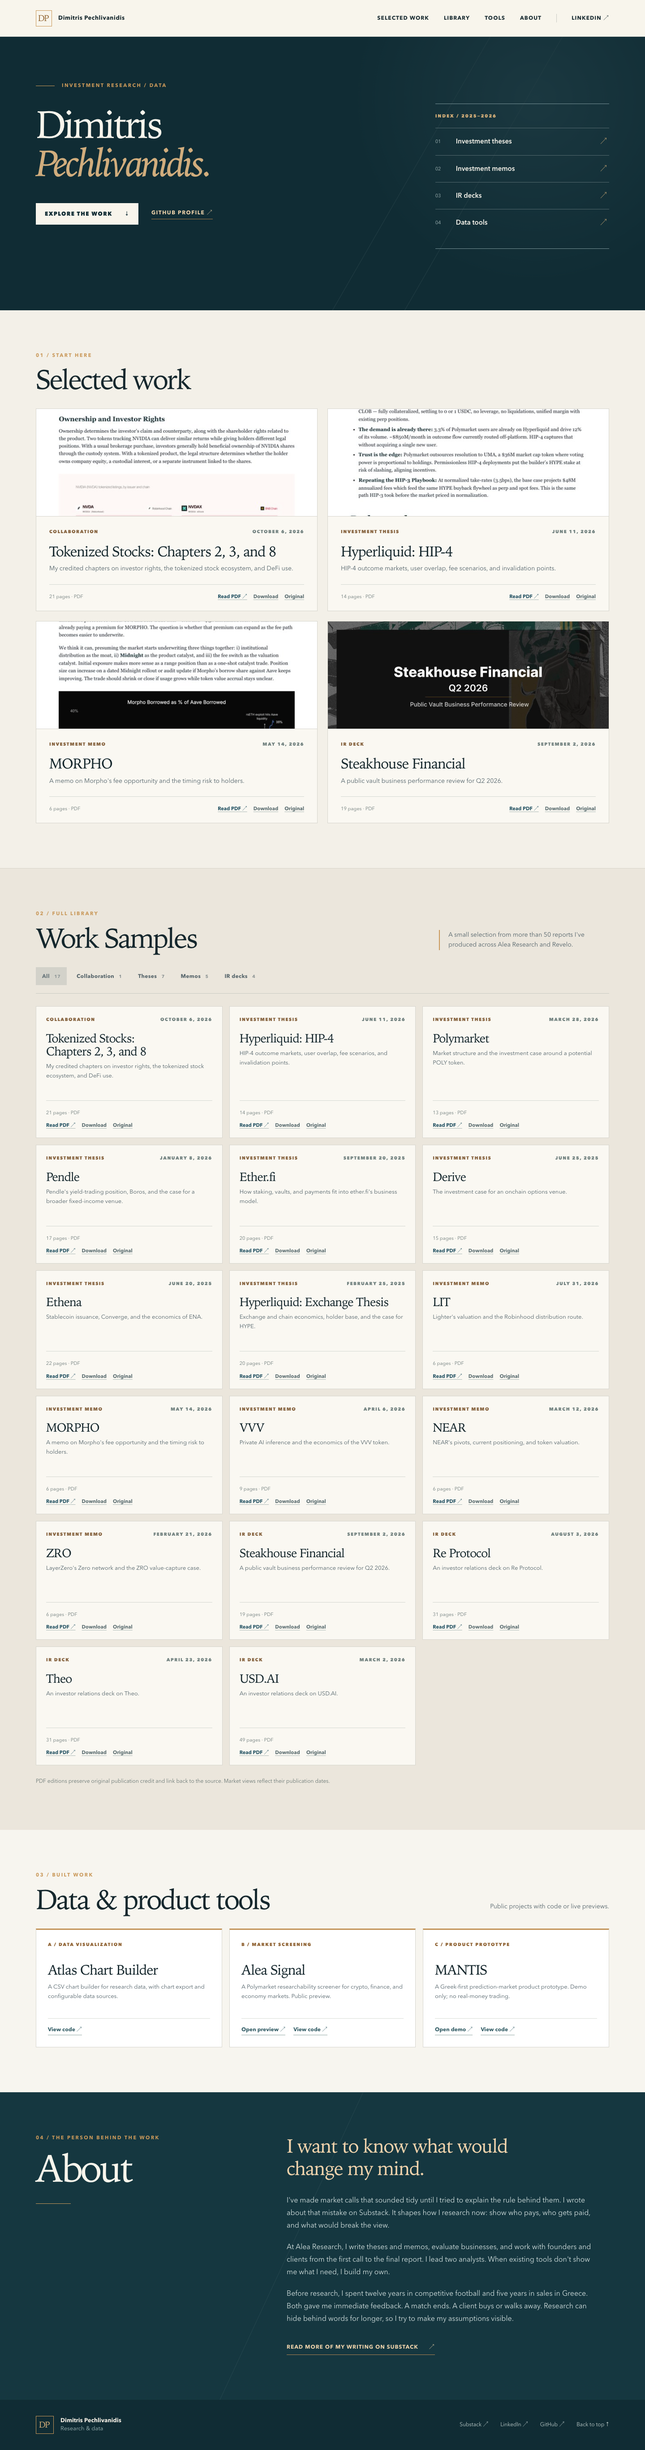
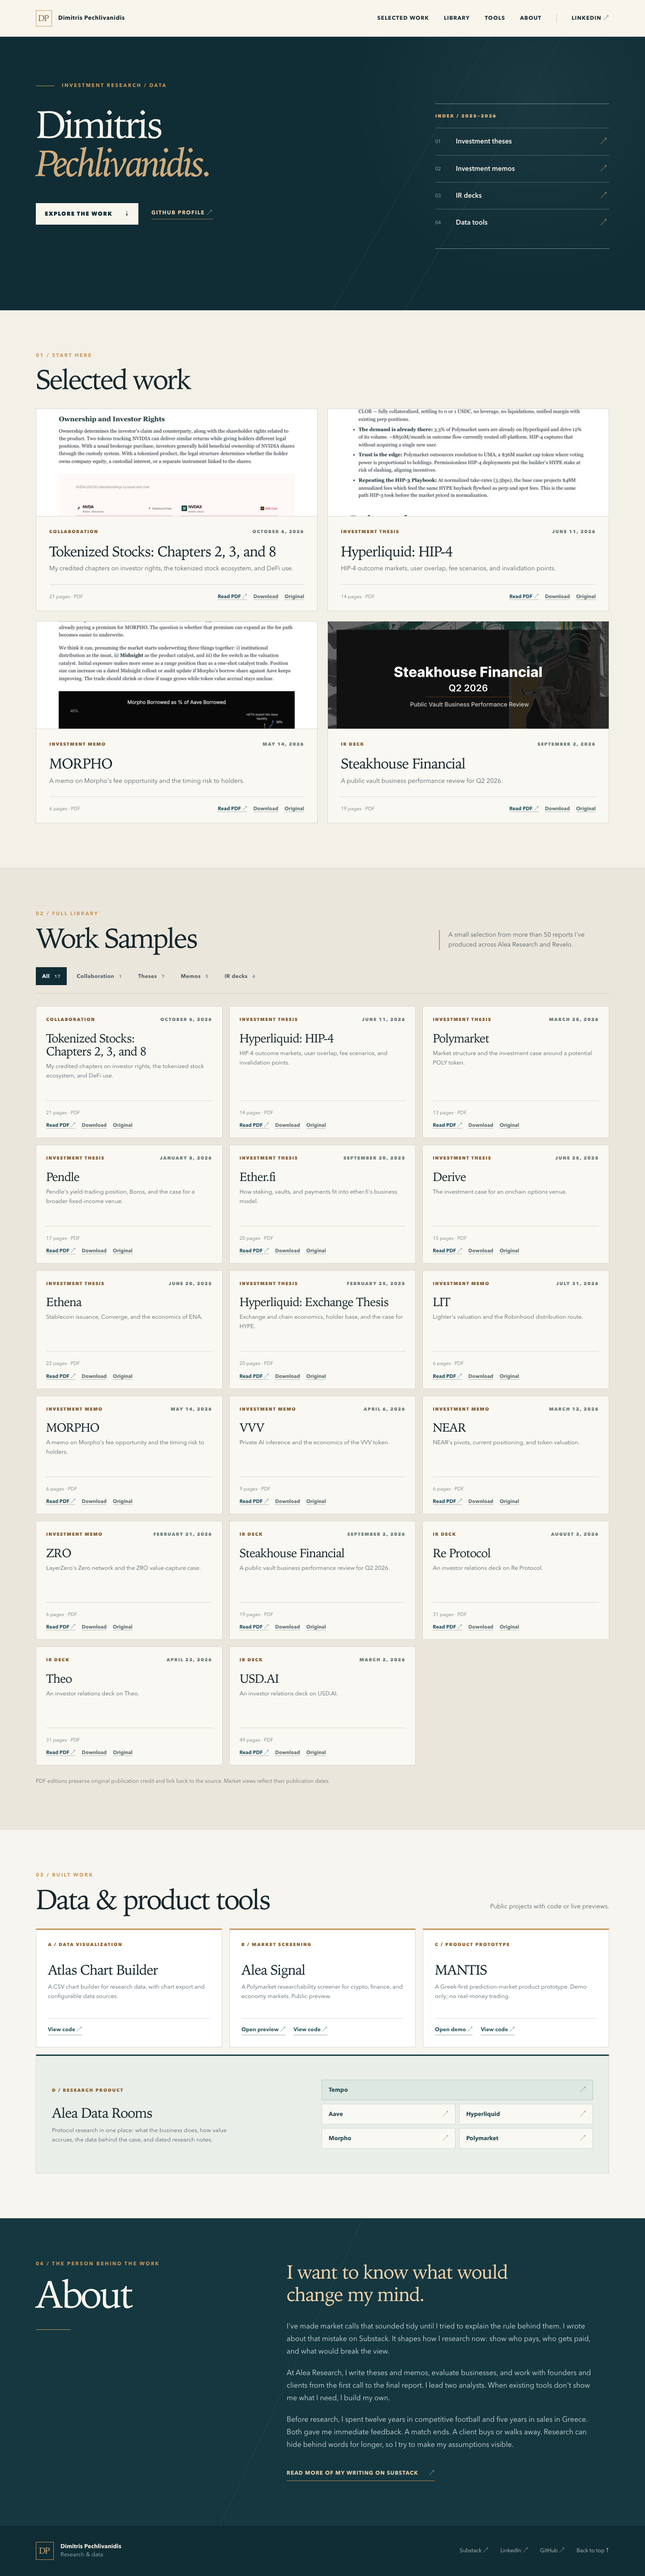
Add Alea Data Rooms to product portfolio

diff --git a/docs/styles.css b/docs/styles.css
@@ -85,6 +85,14 @@ a:focus-visible,button:focus-visible{outline:3px solid var(--gold);outline-offse
 .tool-links{margin-top:auto;display:flex;flex-wrap:wrap;gap:18px;padding-top:15px;border-top:1px solid #d9ddd7}
 .tool-links a{font-size:12px;font-weight:700;color:#315b64;border-bottom:1px solid #93a9a5;padding-bottom:2px}
 .tool-links a:hover{color:#a16c35}
+.data-room-card{grid-column:1/-1;min-height:265px;display:grid;grid-template-columns:minmax(0,1fr) minmax(0,1.2fr);align-items:center;gap:8%;padding:33px 35px;background:#e9eee9;border-top-color:#173b43}
+.data-room-copy h3{margin:22px 0 12px}
+.data-room-copy p{max-width:410px;margin:0}
+.room-links{display:grid;grid-template-columns:repeat(2,minmax(0,1fr));gap:8px}
+.room-links a{display:flex;justify-content:space-between;align-items:center;gap:12px;min-width:0;background:#f9f8f2;border:1px solid #ced9d3;padding:12px 15px;color:#244a52;font-size:13px;font-weight:700;transition:background .2s ease,border-color .2s ease,transform .2s ease}
+.room-links a:hover{background:#fff;border-color:#a0b4ae;transform:translateY(-2px)}
+.room-links a span:last-child{color:#a2733f}
+.room-links a:first-child{grid-column:1/-1;background:#dce8e1;border-color:#b6cbc0}
 .about-section{position:relative;overflow:hidden;background:#153740;color:var(--cream);border-top:1px solid #30515a}
 .about-section:before{content:"";position:absolute;inset:0;pointer-events:none;opacity:.13;background:linear-gradient(115deg,transparent 0 46%,#86a0a1 46.06%,transparent 46.12%)}
 .about-grid{position:relative;display:grid;grid-template-columns:minmax(220px,.75fr) minmax(0,1.25fr);gap:10%;align-items:start}
@@ -104,6 +112,7 @@ a:focus-visible,button:focus-visible{outline:3px solid var(--gold);outline-offse
 .footer-links{display:flex;gap:27px;flex-wrap:wrap;color:#c3d1cf;font-size:12px}
 .footer-links a:hover{color:#e3bb82}
 @media(max-width:1050px){.hero-grid{gap:5%}.hero h1{font-size:64px}.library-grid{grid-template-columns:repeat(2,minmax(0,1fr))}.card-bottom{align-items:flex-start;flex-direction:column}.card-links{justify-content:flex-start}}
-@media(max-width:760px){.container{width:min(100% - 36px,1280px)}.site-header{height:auto;min-height:76px}.header-inner{align-items:flex-start;flex-direction:column;justify-content:center;padding:15px 0;gap:13px}.site-header nav{gap:17px;font-size:10px;flex-wrap:wrap}.nav-contact{padding-left:0;border-left:0}.hero-grid{display:block;min-height:0}.hero-copy{padding:76px 0 44px}.hero h1{font-size:clamp(44px,11vw,70px);max-width:620px}.hero-aside{margin:0 0 56px}.section{padding:70px 0 76px}.section-heading{align-items:flex-start;flex-direction:column;gap:17px}.featured-grid,.library-grid,.tool-grid{grid-template-columns:1fr}.feature-image{height:220px}.library-grid .work-card p{min-height:0}.about-grid{grid-template-columns:1fr;gap:35px}.about-heading h2{margin-bottom:18px}.footer-inner{align-items:flex-start;flex-direction:column}.footer-links{gap:18px}}
+@media(max-width:760px){.container{width:min(100% - 36px,1280px)}.site-header{height:auto;min-height:76px}.header-inner{align-items:flex-start;flex-direction:column;justify-content:center;padding:15px 0;gap:13px}.site-header nav{gap:17px;font-size:10px;flex-wrap:wrap}.nav-contact{padding-left:0;border-left:0}.hero-grid{display:block;min-height:0}.hero-copy{padding:76px 0 44px}.hero h1{font-size:clamp(44px,11vw,70px);max-width:620px}.hero-aside{margin:0 0 56px}.section{padding:70px 0 76px}.section-heading{align-items:flex-start;flex-direction:column;gap:17px}.featured-grid,.library-grid,.tool-grid{grid-template-columns:1fr}.feature-image{height:220px}.library-grid .work-card p{min-height:0}.data-room-card{grid-template-columns:1fr;gap:23px}.about-grid{grid-template-columns:1fr;gap:35px}.about-heading h2{margin-bottom:18px}.footer-inner{align-items:flex-start;flex-direction:column}.footer-links{gap:18px}}
 @media(max-width:440px){.site-header nav a:nth-child(2){display:none}.hero h1{font-size:44px}.hero-actions{align-items:flex-start;flex-direction:column;gap:19px}.section-heading h2{font-size:44px}.card-content{padding:22px}.work-card h3{font-size:29px}.card-meta{font-size:9px;letter-spacing:.09em}.feature-image{height:190px}.filter{font-size:11px;padding:9px 10px}.tool-card{min-height:245px}}
+@media(max-width:440px){.data-room-card{padding:24px}.room-links{grid-template-columns:1fr}.room-links a:first-child{grid-column:auto}}
 @media(prefers-reduced-motion:reduce){html{scroll-behavior:auto}*,*:before,*:after{transition:none!important;animation:none!important}}

diff --git a/docs/index.html b/docs/index.html
@@ -359,6 +359,16 @@
           <article class="tool-card"><span class="tool-index">A / DATA VISUALIZATION</span><h3>Atlas Chart Builder</h3><p>A CSV chart builder for research data, with chart export and configurable data sources.</p><div class="tool-links"><a href="https://github.com/0xDimi/atlas-chart-builder" target="_blank" rel="noopener">View code ↗</a></div></article>
           <article class="tool-card"><span class="tool-index">B / MARKET SCREENING</span><h3>Alea Signal</h3><p>A Polymarket researchability screener for crypto, finance, and economy markets. Public preview.</p><div class="tool-links"><a href="https://alea-signal.vercel.app/" target="_blank" rel="noopener">Open preview ↗</a><a href="https://github.com/0xDimi/alea-signal" target="_blank" rel="noopener">View code ↗</a></div></article>
           <article class="tool-card"><span class="tool-index">C / PRODUCT PROTOTYPE</span><h3>MANTIS</h3><p>A Greek-first prediction-market product prototype. Demo only; no real-money trading.</p><div class="tool-links"><a href="https://mantis-demo.xyz/" target="_blank" rel="noopener">Open demo ↗</a><a href="https://github.com/0xDimi/MANTIS" target="_blank" rel="noopener">View code ↗</a></div></article>
+          <article class="tool-card data-room-card">
+            <div class="data-room-copy"><span class="tool-index">D / RESEARCH PRODUCT</span><h3>Alea Data Rooms</h3><p>Protocol research in one place: what the business does, how value accrues, the data behind the case, and dated research notes.</p></div>
+            <div class="room-links" aria-label="Explore Alea data rooms">
+              <a href="https://tempo.alearesearch.io/#what-it-does" target="_blank" rel="noopener"><span>Tempo</span><span aria-hidden="true">↗</span></a>
+              <a href="https://aave.alearesearch.io/" target="_blank" rel="noopener"><span>Aave</span><span aria-hidden="true">↗</span></a>
+              <a href="https://hyperliquid.alearesearch.io/" target="_blank" rel="noopener"><span>Hyperliquid</span><span aria-hidden="true">↗</span></a>
+              <a href="https://morpho.alearesearch.io/" target="_blank" rel="noopener"><span>Morpho</span><span aria-hidden="true">↗</span></a>
+              <a href="https://polymarket.alearesearch.io/" target="_blank" rel="noopener"><span>Polymarket</span><span aria-hidden="true">↗</span></a>
+            </div>
+          </article>
         </div>
       </div>
     </section>

diff --git a/scripts/build_site.py b/scripts/build_site.py
@@ -177,6 +177,16 @@ def main() -> None:
           <article class="tool-card"><span class="tool-index">A / DATA VISUALIZATION</span><h3>Atlas Chart Builder</h3><p>A CSV chart builder for research data, with chart export and configurable data sources.</p><div class="tool-links"><a href="https://github.com/0xDimi/atlas-chart-builder" target="_blank" rel="noopener">View code ↗</a></div></article>
           <article class="tool-card"><span class="tool-index">B / MARKET SCREENING</span><h3>Alea Signal</h3><p>A Polymarket researchability screener for crypto, finance, and economy markets. Public preview.</p><div class="tool-links"><a href="https://alea-signal.vercel.app/" target="_blank" rel="noopener">Open preview ↗</a><a href="https://github.com/0xDimi/alea-signal" target="_blank" rel="noopener">View code ↗</a></div></article>
           <article class="tool-card"><span class="tool-index">C / PRODUCT PROTOTYPE</span><h3>MANTIS</h3><p>A Greek-first prediction-market product prototype. Demo only; no real-money trading.</p><div class="tool-links"><a href="https://mantis-demo.xyz/" target="_blank" rel="noopener">Open demo ↗</a><a href="https://github.com/0xDimi/MANTIS" target="_blank" rel="noopener">View code ↗</a></div></article>
+          <article class="tool-card data-room-card">
+            <div class="data-room-copy"><span class="tool-index">D / RESEARCH PRODUCT</span><h3>Alea Data Rooms</h3><p>Protocol research in one place: what the business does, how value accrues, the data behind the case, and dated research notes.</p></div>
+            <div class="room-links" aria-label="Explore Alea data rooms">
+              <a href="https://tempo.alearesearch.io/#what-it-does" target="_blank" rel="noopener"><span>Tempo</span><span aria-hidden="true">↗</span></a>
+              <a href="https://aave.alearesearch.io/" target="_blank" rel="noopener"><span>Aave</span><span aria-hidden="true">↗</span></a>
+              <a href="https://hyperliquid.alearesearch.io/" target="_blank" rel="noopener"><span>Hyperliquid</span><span aria-hidden="true">↗</span></a>
+              <a href="https://morpho.alearesearch.io/" target="_blank" rel="noopener"><span>Morpho</span><span aria-hidden="true">↗</span></a>
+              <a href="https://polymarket.alearesearch.io/" target="_blank" rel="noopener"><span>Polymarket</span><span aria-hidden="true">↗</span></a>
+            </div>
+          </article>
         </div>
       </div>
     </section>
